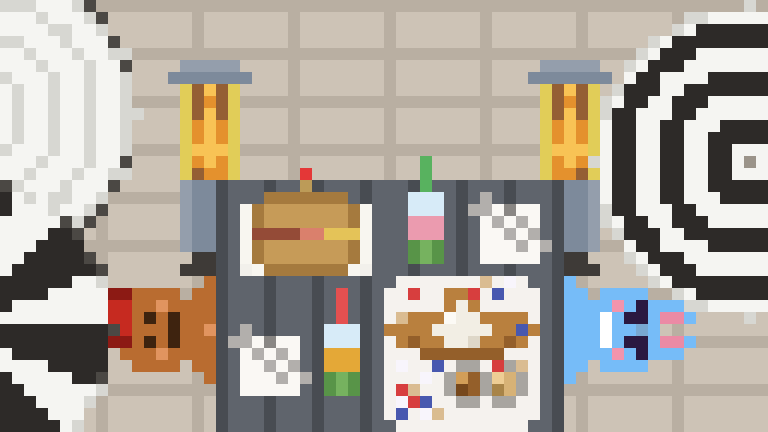
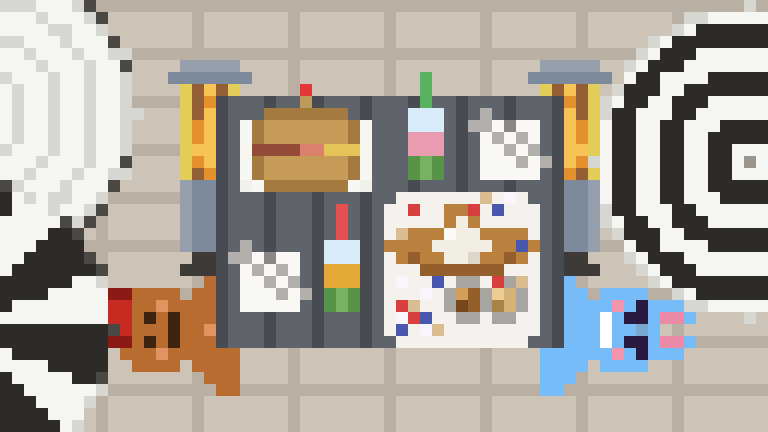
fabrini2: TDY偏移系统重构，桌面压层修复

Changed region(s): [[0.2812, 0.1505, 0.75, 1.0]]

diff --git a/pixel_fabrini2.py b/pixel_fabrini2.py
@@ -142,11 +142,15 @@ def draw_heater(cx, y_top, y_bot):
     wrow(_ct,   cx-2, cx+2, HEAT_L)   # 上行窄
     sp(cx-3, _ct, GROUND); sp(cx+3, _ct, GROUND)
 
-# 桌子两侧暖炉
+# ── 桌子（俯视矩形，扩大）──
+_TDY = -4  # 桌面偏移量（负=上移）
+def tsp(x, y, c): sp(x, y + _TDY, c)
+def tfl(y1, y2, x1, x2, c): fl(y1+_TDY, y2+_TDY, x1, x2, c)
+def twrow(y, x1, x2, c): wrow(y+_TDY, x1, x2, c)
+def twcol(x, y1, y2, c): wcol(x, y1+_TDY, y2+_TDY, c)
+# 暖炉固定位置（不随桌面移动）
 draw_heater(17, 5, 22)
 draw_heater(47, 5, 22)
-
-# ── 桌子（俯视矩形，扩大）──
 # 桌面竖条颜色计算函数
 def _TBC(x): return (72,76,82) if ((x-18)%4)==0 else (95,100,108)
 # 桌面金属竖条（每4格一组，两色交替）
@@ -155,35 +159,35 @@ _MB = (95, 100, 108) # 稍亮色
 for _bx in range(18, 47):
     _col = _MA if ((_bx - 18) % 4) == 0 else _MB
     for _by in range(12, 33):
-        sp(_bx, _by, _col)
+        tsp(_bx, _by, _col)
 
 # 白纸（x=20, y=12~16）
-for _py in range(14,19): sp(20, _py, (248, 246, 240))
-for _py in range(14,19): sp(30, _py, (248, 246, 240))
+for _py in range(14,19): tsp(20, _py, (248, 246, 240))
+for _py in range(14,19): tsp(30, _py, (248, 246, 240))
 # ── 左盘：三明治（桌子左上角）──
-fl(19, 19, 19, 31, PLATE)
-sp(19, 19, _TBC(19)); sp(31, 19, _TBC(31))
+tfl(19, 19, 19, 31, PLATE)
+tsp(19, 19, _TBC(19)); tsp(31, 19, _TBC(31))
 # 面包底层
-fl(17, 19, 21, 29, BREAD_D)
-fl(16, 18, 21, 29, BREAD)
-sp(21, 14, BREAD_D); sp(29, 14, BREAD_D)
-for _sy in range(16,20): sp(21, _sy, BREAD_D); sp(29, _sy, BREAD_D)
+tfl(17, 19, 21, 29, BREAD_D)
+tfl(16, 18, 21, 29, BREAD)
+tsp(21, 14, BREAD_D); tsp(29, 14, BREAD_D)
+for _sy in range(16,20): tsp(21, _sy, BREAD_D); tsp(29, _sy, BREAD_D)
 # 夹层
-wrow(16, 21, 24, BEEF)
-wrow(16, 25, 26, SHRIMP)
-wrow(16, 27, 29, CHEESE)
-sp(21, 15, LETTUCE); sp(24, 15, LETTUCE); sp(27, 15, LETTUCE); sp(29, 15, LETTUCE)
+twrow(16, 21, 24, BEEF)
+twrow(16, 25, 26, SHRIMP)
+twrow(16, 27, 29, CHEESE)
+tsp(21, 15, LETTUCE); tsp(24, 15, LETTUCE); tsp(27, 15, LETTUCE); tsp(29, 15, LETTUCE)
 # 面包顶层
-fl(13, 15, 21, 29, BREAD)
-wrow(13, 21, 29, BREAD_D)
-sp(21, 13, BREAD_D); sp(29, 13, BREAD_D)
-for _sy in range(14,16): sp(21, _sy, BREAD_D); sp(29, _sy, BREAD_D)
+tfl(13, 15, 21, 29, BREAD)
+twrow(13, 21, 29, BREAD_D)
+tsp(21, 13, BREAD_D); tsp(29, 13, BREAD_D)
+for _sy in range(14,16): tsp(21, _sy, BREAD_D); tsp(29, _sy, BREAD_D)
 # 圆角用背景色挖掉
-sp(21, 13, _TBC(21)); sp(29, 13, _TBC(29))
-sp(21, 19, (248, 246, 240)); sp(29, 19, (248, 246, 240))
+tsp(21, 13, _TBC(21)); tsp(29, 13, _TBC(29))
+tsp(21, 19, (248, 246, 240)); tsp(29, 19, (248, 246, 240))
 # 牙签
-sp(25, 11, (228, 55, 55))
-sp(25, 12, (188, 155, 88))
+tsp(25, 11, (228, 55, 55))
+tsp(25, 12, (188, 155, 88))
 
 # ── 右盘：蛋糕（俯视，桌子右下角）──
 PLATE_C  = (245, 242, 238)   # 白瓷盘
@@ -197,10 +201,10 @@ ALMOND   = (218, 188, 145)   # 杏仁片
 SUGAR    = (248, 245, 252)   # 糖霜
 
 # 盘子（正方形 13×13格）
-fl(20, 32, 32, 44, PLATE_C)
+tfl(20, 32, 32, 44, PLATE_C)
 # 盘圆角
-sp(32, 20, _TBC(32)); sp(44, 20, _TBC(44))
-sp(32, 32, _TBC(32)); sp(44, 32, _TBC(44))
+tsp(32, 20, _TBC(32)); tsp(44, 20, _TBC(44))
+tsp(32, 32, _TBC(32)); tsp(44, 32, _TBC(44))
 
 # 云朵形蛋糕体（中心 x=39, y=26，适配13×13盘）
 _cx, _cy = 38, 24
@@ -209,70 +213,70 @@ SOU_D = (222, 215, 200)   # 舒芙蕾阴影
 # 中央椭圆（宽5高3）
 for _dy in range(-1,2):
     for _dx in range(-2,3):
-        sp(_cx+_dx, _cy+_dy, CARAMEL)
+        tsp(_cx+_dx, _cy+_dy, CARAMEL)
 # 左鼓包（r=2）
 for _dy in range(-1,2):
     for _dx in range(-2,3):
         if _dx*_dx + _dy*_dy <= 4:
-            sp(_cx-4+_dx, _cy+_dy, CARAMEL)
+            tsp(_cx-4+_dx, _cy+_dy, CARAMEL)
 # 右鼓包（r=2）
 for _dy in range(-1,2):
     for _dx in range(-2,3):
         if _dx*_dx + _dy*_dy <= 4:
-            sp(_cx+4+_dx, _cy+_dy, CARAMEL)
+            tsp(_cx+4+_dx, _cy+_dy, CARAMEL)
 # 上鼓包（偏上）
 for _dy in range(-2,1):
     for _dx in range(-1,2):
         if _dx*_dx + _dy*_dy <= 2:
-            sp(_cx+_dx, _cy-2+_dy, CARAMEL)
+            tsp(_cx+_dx, _cy-2+_dy, CARAMEL)
 # 蛋糕暗边（底部）
-wrow(_cy+2, _cx-3, _cx+3, CARAMEL_D)
-sp(_cx-4, _cy+1, CARAMEL_D); sp(_cx+4, _cy+1, CARAMEL_D)
+twrow(_cy+2, _cx-3, _cx+3, CARAMEL_D)
+tsp(_cx-4, _cy+1, CARAMEL_D); tsp(_cx+4, _cy+1, CARAMEL_D)
 
 # 舒芙蕾（r=2圆形，盖在蛋糕上方）
 _sx, _sy = _cx, _cy
 for _dy in range(-2,3):
     for _dx in range(-2,3):
         if _dx*_dx + _dy*_dy <= 4:
-            sp(_sx+_dx, _sy+_dy, SOU)
+            tsp(_sx+_dx, _sy+_dy, SOU)
 # 高光（左上1格）
-sp(_sx-1, _sy-1, SOU_L)
+tsp(_sx-1, _sy-1, SOU_L)
 # 阴影（右下边缘）
-sp(_sx+1, _sy+1, SOU_D); sp(_sx, _sy+2, SOU_D)
+tsp(_sx+1, _sy+1, SOU_D); tsp(_sx, _sy+2, SOU_D)
 # 圆形边缘用蛋糕色描边（让圆形轮廓更清晰）
-sp(_sx-2, _sy-1, CARAMEL); sp(_sx+2, _sy-1, CARAMEL)
-sp(_sx-2, _sy+1, CARAMEL); sp(_sx+2, _sy+1, CARAMEL)
-sp(_sx-1, _sy-2, CARAMEL); sp(_sx+1, _sy-2, CARAMEL)
-sp(_sx-1, _sy+2, CARAMEL_D); sp(_sx+1, _sy+2, CARAMEL_D)
-sp(_sx, _sy+2, CARAMEL_D)
+tsp(_sx-2, _sy-1, CARAMEL); tsp(_sx+2, _sy-1, CARAMEL)
+tsp(_sx-2, _sy+1, CARAMEL); tsp(_sx+2, _sy+1, CARAMEL)
+tsp(_sx-1, _sy-2, CARAMEL); tsp(_sx+1, _sy-2, CARAMEL)
+tsp(_sx-1, _sy+2, CARAMEL_D); tsp(_sx+1, _sy+2, CARAMEL_D)
+tsp(_sx, _sy+2, CARAMEL_D)
 
 # 深焦糖酱小圆碗（4×4，灰边去四角）
 _BE = (168, 165, 160)
 _bx1, _by1 = _cx, _cy+4
 # 顶行（去角，中间2格）
-sp(_bx1,   _by1-1, _BE); sp(_bx1+1, _by1-1, _BE)
+tsp(_bx1,   _by1-1, _BE); tsp(_bx1+1, _by1-1, _BE)
 # 中两行（全4格，边灰内酱）
-sp(_bx1-1, _by1,   _BE); sp(_bx1, _by1, (210,158,88)); sp(_bx1+1, _by1, CARAMEL_D); sp(_bx1+2, _by1, _BE)
-sp(_bx1-1, _by1+1, _BE); sp(_bx1, _by1+1, (118,72,28)); sp(_bx1+1, _by1+1, CARAMEL_D); sp(_bx1+2, _by1+1, _BE)
+tsp(_bx1-1, _by1,   _BE); tsp(_bx1, _by1, (210,158,88)); tsp(_bx1+1, _by1, CARAMEL_D); tsp(_bx1+2, _by1, _BE)
+tsp(_bx1-1, _by1+1, _BE); tsp(_bx1, _by1+1, (118,72,28)); tsp(_bx1+1, _by1+1, CARAMEL_D); tsp(_bx1+2, _by1+1, _BE)
 # 底行（去角，中间2格）
-sp(_bx1,   _by1+2, _BE); sp(_bx1+1, _by1+2, _BE)
+tsp(_bx1,   _by1+2, _BE); tsp(_bx1+1, _by1+2, _BE)
 # 曲奇酱小圆碗
 _bx2, _by2 = _cx+3, _cy+4
-sp(_bx2,   _by2-1, _BE); sp(_bx2+1, _by2-1, _BE)
-sp(_bx2-1, _by2,   _BE); sp(_bx2, _by2, (238,205,148)); sp(_bx2+1, _by2, COOKIE); sp(_bx2+2, _by2, _BE)
-sp(_bx2-1, _by2+1, _BE); sp(_bx2, _by2+1, (168,132,72)); sp(_bx2+1, _by2+1, COOKIE); sp(_bx2+2, _by2+1, _BE)
-sp(_bx2,   _by2+2, _BE); sp(_bx2+1, _by2+2, _BE)
+tsp(_bx2,   _by2-1, _BE); tsp(_bx2+1, _by2-1, _BE)
+tsp(_bx2-1, _by2,   _BE); tsp(_bx2, _by2, (238,205,148)); tsp(_bx2+1, _by2, COOKIE); tsp(_bx2+2, _by2, _BE)
+tsp(_bx2-1, _by2+1, _BE); tsp(_bx2, _by2+1, (168,132,72)); tsp(_bx2+1, _by2+1, COOKIE); tsp(_bx2+2, _by2+1, _BE)
+tsp(_bx2,   _by2+2, _BE); tsp(_bx2+1, _by2+2, _BE)
 
 # 装饰
-sp(_cx-4, _cy-3, BERRY_S); sp(_cx+1, _cy-3, BERRY_S); sp(_cx+3, _cy+3, BERRY_S)
-sp(_cx-2, _cy+3, BLUE_B); sp(_cx+3, _cy-3, BLUE_B); sp(_cx+5, _cy, BLUE_B)
-sp(_cx-5, _cy-1, ALMOND); sp(_cx+2, _cy-4, ALMOND); sp(_cx+5, _cy+3, ALMOND)
-sp(_cx-3, _cy+4, SUGAR); sp(_cx+4, _cy-4, SUGAR); sp(_cx-5, _cy+3, SUGAR)
+tsp(_cx-4, _cy-3, BERRY_S); tsp(_cx+1, _cy-3, BERRY_S); tsp(_cx+3, _cy+3, BERRY_S)
+tsp(_cx-2, _cy+3, BLUE_B); tsp(_cx+3, _cy-3, BLUE_B); tsp(_cx+5, _cy, BLUE_B)
+tsp(_cx-5, _cy-1, ALMOND); tsp(_cx+2, _cy-4, ALMOND); tsp(_cx+5, _cy+3, ALMOND)
+tsp(_cx-3, _cy+4, SUGAR); tsp(_cx+4, _cy-4, SUGAR); tsp(_cx-5, _cy+3, SUGAR)
 # 左下角装饰
-sp(_cx-5, _cy+5, BERRY_S); sp(_cx-4, _cy+6, BERRY_S)
-sp(_cx-3, _cy+6, BLUE_B); sp(_cx-5, _cy+7, BLUE_B)
-sp(_cx-4, _cy+5, ALMOND); sp(_cx-2, _cy+7, ALMOND)
-sp(_cx-3, _cy+7, SUGAR); sp(_cx-5, _cy+6, SUGAR)
+tsp(_cx-5, _cy+5, BERRY_S); tsp(_cx-4, _cy+6, BERRY_S)
+tsp(_cx-3, _cy+6, BLUE_B); tsp(_cx-5, _cy+7, BLUE_B)
+tsp(_cx-4, _cy+5, ALMOND); tsp(_cx-2, _cy+7, ALMOND)
+tsp(_cx-3, _cy+7, SUGAR); tsp(_cx-5, _cy+6, SUGAR)
 
 # ── 两杯抹茶（侧视图）──
 CUP_W  = (245, 248, 252)  # 透明杯身
@@ -283,27 +287,27 @@ MT_L   = (118, 178, 95)   # 抹茶浅
 # 左杯（x=18~21, y=20~26）芒果底
 # 杯身（无描边，3格宽）
 for _y in range(24, 30):
-    sp(27, _y, CUP_W); sp(28, _y, CUP_W); sp(29, _y, CUP_W)
-sp(27, 24, ICE); sp(28, 24, ICE); sp(29, 24, ICE)
-sp(27, 25, ICE); sp(28, 25, ICE); sp(29, 25, ICE)
-sp(27, 26, MANGO); sp(28, 26, MANGO); sp(29, 26, MANGO)
-sp(27, 27, MANGO); sp(28, 27, MANGO); sp(29, 27, MANGO)
-sp(27, 28, MATCHA); sp(28, 28, MT_L); sp(29, 28, MATCHA)
-sp(27, 29, MATCHA); sp(28, 29, MT_L); sp(29, 29, MATCHA)
+    tsp(27, _y, CUP_W); tsp(28, _y, CUP_W); tsp(29, _y, CUP_W)
+tsp(27, 24, ICE); tsp(28, 24, ICE); tsp(29, 24, ICE)
+tsp(27, 25, ICE); tsp(28, 25, ICE); tsp(29, 25, ICE)
+tsp(27, 26, MANGO); tsp(28, 26, MANGO); tsp(29, 26, MANGO)
+tsp(27, 27, MANGO); tsp(28, 27, MANGO); tsp(29, 27, MANGO)
+tsp(27, 28, MATCHA); tsp(28, 28, MT_L); tsp(29, 28, MATCHA)
+tsp(27, 29, MATCHA); tsp(28, 29, MT_L); tsp(29, 29, MATCHA)
 # 吸管（红色）
-sp(28, 21, (228, 80, 80)); sp(28, 22, (228, 80, 80)); sp(28, 23, (228, 80, 80))
+tsp(28, 21, (228, 80, 80)); tsp(28, 22, (228, 80, 80)); tsp(28, 23, (228, 80, 80))
 
 # 右杯（x=42~45, y=13~19）草莓底
 for _y in range(13, 19):
-    sp(34, _y, CUP_W); sp(35, _y, CUP_W); sp(36, _y, CUP_W)
-sp(34, 13, ICE); sp(35, 13, ICE); sp(36, 13, ICE)
-sp(34, 14, ICE); sp(35, 14, ICE); sp(36, 14, ICE)
-sp(34, 15, STRAW_C); sp(35, 15, STRAW_C); sp(36, 15, STRAW_C)
-sp(34, 16, STRAW_C); sp(35, 16, STRAW_C); sp(36, 16, STRAW_C)
-sp(34, 17, MATCHA); sp(35, 17, MT_L); sp(36, 17, MATCHA)
-sp(34, 18, MATCHA); sp(35, 18, MT_L); sp(36, 18, MATCHA)
+    tsp(34, _y, CUP_W); tsp(35, _y, CUP_W); tsp(36, _y, CUP_W)
+tsp(34, 13, ICE); tsp(35, 13, ICE); tsp(36, 13, ICE)
+tsp(34, 14, ICE); tsp(35, 14, ICE); tsp(36, 14, ICE)
+tsp(34, 15, STRAW_C); tsp(35, 15, STRAW_C); tsp(36, 15, STRAW_C)
+tsp(34, 16, STRAW_C); tsp(35, 16, STRAW_C); tsp(36, 16, STRAW_C)
+tsp(34, 17, MATCHA); tsp(35, 17, MT_L); tsp(36, 17, MATCHA)
+tsp(34, 18, MATCHA); tsp(35, 18, MT_L); tsp(36, 18, MATCHA)
 # 吸管（绿色）
-sp(35, 10, (88, 178, 95)); sp(35, 11, (88, 178, 95)); sp(35, 12, (88, 178, 95))
+tsp(35, 10, (88, 178, 95)); tsp(35, 11, (88, 178, 95)); tsp(35, 12, (88, 178, 95))
 
 
 
@@ -312,19 +316,19 @@ _NP = (250, 248, 244)   # 纸白
 _NPD = (228, 225, 218)  # 折痕
 for _y in range(14, 19):
     for _x in range(40, 45):
-        sp(_x, _y, _NP)
+        tsp(_x, _y, _NP)
 # 折痕对角线
-sp(40, 14, _NPD); sp(41, 15, _NPD); sp(42, 16, _NPD)
+tsp(40, 14, _NPD); tsp(41, 15, _NPD); tsp(42, 16, _NPD)
 
 # ── 刀叉（45度斜摆，放餐巾纸上）──
 _FK = (178, 175, 172)
 _FKD = (138, 135, 132)
 # 叉子（x=47+i, y=12+i, 长4格）
-for _i in range(4): sp(40+_i, 14+_i, _FK)
-sp(39, 14, _FK); sp(40, 13, _FK)  # 叉齿
+for _i in range(4): tsp(40+_i, 14+_i, _FK)
+tsp(39, 14, _FK); tsp(40, 13, _FK)  # 叉齿
 # 刀（右移2格平行）
-for _i in range(4): sp(42+_i, 14+_i, _FK)
-sp(42, 14, _FKD)
+for _i in range(4): tsp(42+_i, 14+_i, _FK)
+tsp(42, 14, _FKD)
 
 
 # ── 左侧餐巾纸+刀叉（芒果奶昔左）──
@@ -332,14 +336,14 @@ _NP2 = (250, 248, 244)
 _NPD2 = (228, 225, 218)
 for _y in range(25, 30):
     for _x in range(20, 25):
-        sp(_x, _y, _NP2)
-sp(20, 25, _NPD2); sp(21, 26, _NPD2); sp(22, 27, _NPD2)
+        tsp(_x, _y, _NP2)
+tsp(20, 25, _NPD2); tsp(21, 26, _NPD2); tsp(22, 27, _NPD2)
 _FK2 = (178, 175, 172)
 _FKD2 = (138, 135, 132)
-for _i in range(4): sp(20+_i, 25+_i, _FK2)
-sp(19, 25, _FK2); sp(20, 24, _FK2)
-for _i in range(4): sp(22+_i, 25+_i, _FK2)
-sp(22, 25, _FKD2)
+for _i in range(4): tsp(20+_i, 25+_i, _FK2)
+tsp(19, 25, _FK2); tsp(20, 24, _FK2)
+for _i in range(4): tsp(22+_i, 25+_i, _FK2)
+tsp(22, 25, _FKD2)
 
 
 # ── 两个小人（从 pixel_kiwi.py 移植）──
@@ -440,54 +444,34 @@ _gb_rot  = _gb_crop.rotate(90, expand=True, resample=PILImage.NEAREST)
 _bun_big = _scale_up(_bun_rot, S)
 _gb_big  = _scale_up(_gb_rot,  S)
 
-# 桌面快照（含食物），用于最后覆盖
-_table_snap = img.crop((18*S, 10*S, 47*S, 33*S))
-_TABLE_SHIFT = 3
-_TABLE_Y_ORIG = 10
+# 桌面快照（偏移后位置，用于压回角色上层）
+_TY1 = (12 + _TDY) * S  # 桌面顶部
+_TY2 = (33 + _TDY) * S  # 桌面底部
+_table_snap = img.crop((18*S, _TY1, 47*S, _TY2))
 
 # 合成到 img（先转 RGBA）
 _rgba2 = img.convert('RGBA')
 
-# 兔子（上方）：桌左边，y=13
-# 姜饼人（下方）：y=22
+# 姜饼人
 _GB_X = 5 * S
 _GB_Y = 22 * S
 _rgba2.paste(_gb_big, (_GB_X, _GB_Y), _gb_big)
 
-# 兔子右侧（镜像）：贴着桌右边 TX2=45
+# 兔子右侧（镜像）
 _bun_mirror = _bun_big.transpose(PILImage.FLIP_LEFT_RIGHT)
-_BUN_R_W = _bun_mirror.width
 _BUN_R_X = 43 * S
 _BUN_R_Y = 22 * S
 _rgba2.paste(_bun_mirror, (_BUN_R_X, _BUN_R_Y), _bun_mirror)
 
 img = _rgba2.convert('RGB')
 
-# 桌面（含食物）压回角色上方
-# 清掉旧快照区顶部（只清桌面竖条格子）
-_MA2 = (72, 76, 82); _MB2 = (95, 100, 108)
-for _cx2 in range(18, 47):
-    _cc2 = _MA2 if ((_cx2-18)%4)==0 else _MB2
-    # 顶部被下移后露出的行：y=10~12（3格 = TABLE_SHIFT 行）
-    for _cy2 in range(_TABLE_Y_ORIG, _TABLE_Y_ORIG + _TABLE_SHIFT):
-        sp(_cx2, _cy2, (205, 195, 182))
-# 重绘被清除覆盖的地砖（x=18~46, y=10~12）
-for _rx in range(18, 47):
-    for _ry in range(_TABLE_Y_ORIG, _TABLE_Y_ORIG + _TABLE_SHIFT):
-        if _ry % 4 == 0 or _rx % 8 == 0:
-            sp(_rx, _ry, GROUND_D)
-        else:
-            sp(_rx, _ry, GROUND)
-# 重绘暖炉（在桌面下层）
-draw_heater(17, 5, 22)
-draw_heater(47, 5, 22)
-# 桌面（含食物）下移3格贴回（压在暖炉上层）
-img.paste(_table_snap, (18*S, (_TABLE_Y_ORIG + _TABLE_SHIFT)*S))
+# 桌面（含食物）压回角色上层
+img.paste(_table_snap, (18*S, _TY1))
 
 # ── 伞（最上层）──
 draw_umbrella_top(-2, 9, 13, 'white')       # 左上伞
 draw_umbrella_top(-4, 27, 13, 'thin_stripe') # 左下伞（左移2格）
-draw_umbrella_top(62, 13, 13, 'ring')         # 右上伞（同心环白黑）
+draw_umbrella_top(62, 13, 13, 'ring')        # 右伞（同心环）
 
 img.save('pixel_fabrini2.png')
 print('Saved')
